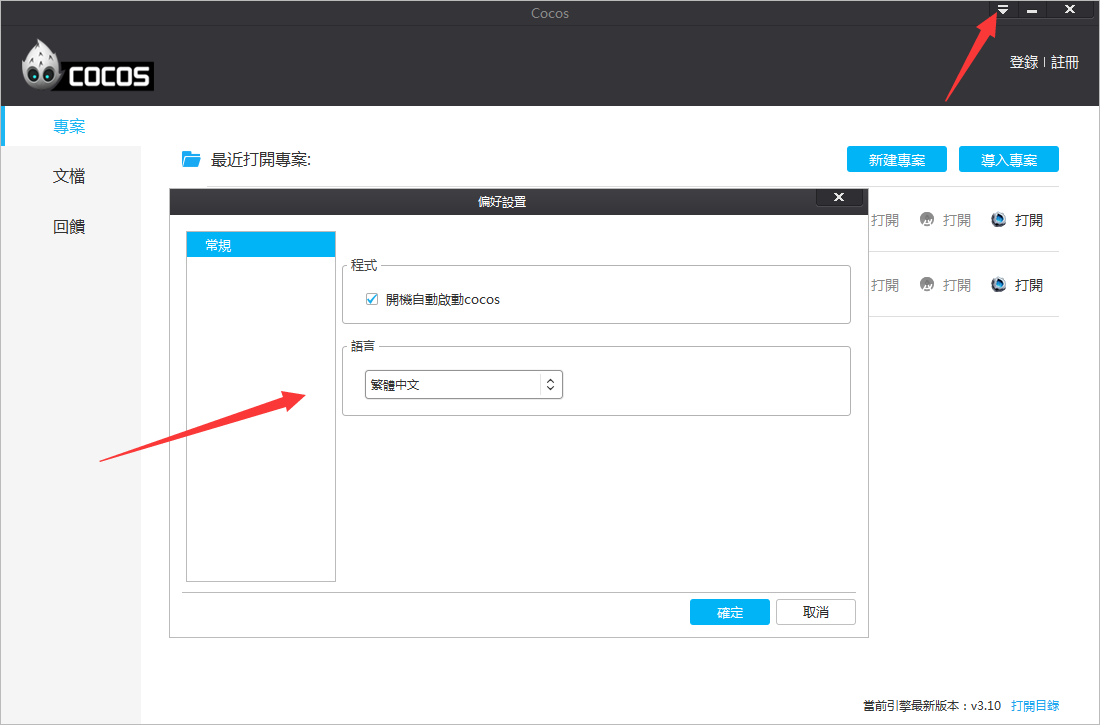
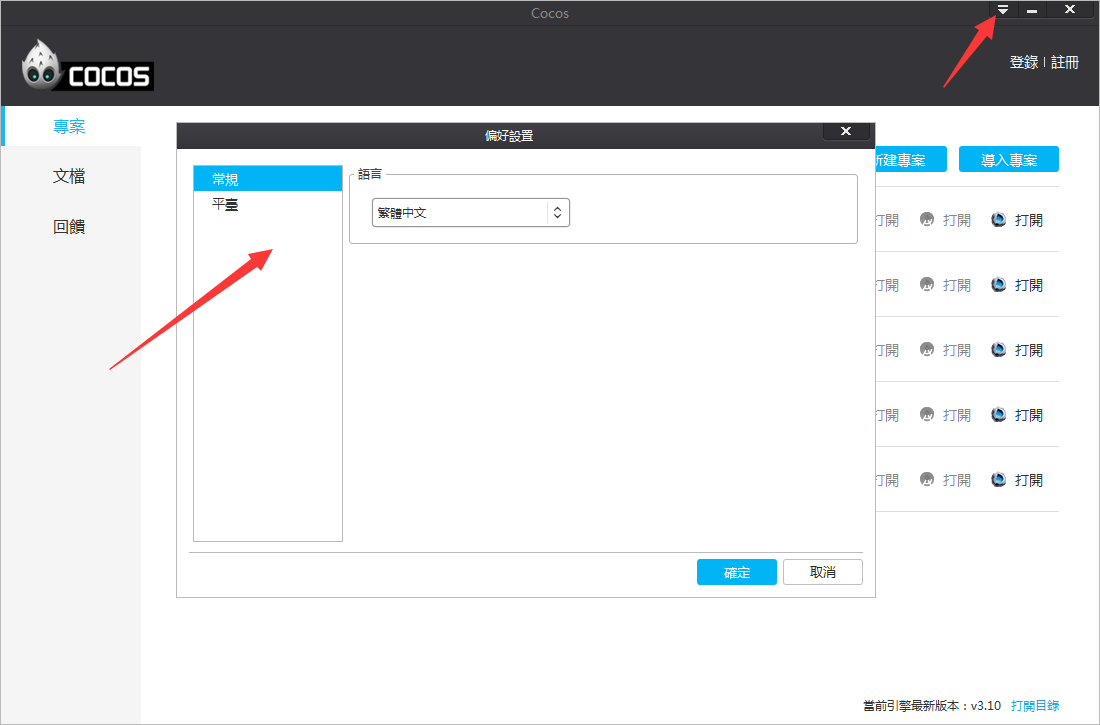
update illustration

diff --git a/manual/studio/v4/chapter2/NewProject/zh.md b/manual/studio/v4/chapter2/NewProject/zh.md
@@ -66,7 +66,7 @@
 &emsp;&emsp;&emsp;&emsp;&emsp;&emsp;&emsp;&emsp;&emsp;&emsp;&emsp;&emsp;&emsp;&emsp;&emsp;&emsp;&emsp;&emsp;&emsp;&emsp;&emsp;&emsp;&emsp;&emsp;&emsp;&emsp;&emsp;&emsp;&emsp;&emsp;**图5. 打开文件** 
 
 ### 6.设置 ###
-在启动器面板，点击右上角的三角图标，弹出3个选项，点击“设置”，您将看到如图6所示界面。其中包括下载目录，发布多渠道目录，勾选是否开机启动cocos和启动器的显示语言，有简体中文，繁体中文和英文可供选择，如图6：
+在启动器面板，点击右上角的三角图标，弹出3个选项，点击“偏好设置”，您将看到如图6所示界面。其中包括下载目录，发布多渠道目录，勾选是否开机启动cocos和启动器的显示语言，有简体中文，繁体中文和英文可供选择，如图6：
 
 ![image](res/image0011.png)
 

diff --git a/manual/studio/v4/chapter2/NewProject/tw.md b/manual/studio/v4/chapter2/NewProject/tw.md
@@ -58,7 +58,7 @@
 &emsp;&emsp;&emsp;&emsp;&emsp;&emsp;&emsp;&emsp;&emsp;&emsp;&emsp;&emsp;&emsp;&emsp;&emsp;&emsp;&emsp;&emsp;&emsp;&emsp;&emsp;&emsp;&emsp;&emsp;&emsp;&emsp;&emsp;&emsp;&emsp;&emsp;**圖4. 打開文件** 
 
 ### 5.設置 ###
-在啟動器面板，點擊右上角的三角圖示，彈出3個選項，點擊“設置”，您將看到如圖6所示介面。可設置是否開機啟動，設置cocos和啟動器的顯示語言。目前有簡體中文，繁體中文和英文可供選擇，如圖5：
+在啟動器面板，點擊右上角的三角圖示，彈出3個選項，點擊“偏好設置”，您將看到如圖6所示介面。可設置是否開機啟動，設置cocos和啟動器的顯示語言。目前有簡體中文，繁體中文和英文可供選擇，如圖5：
 
 ![image](res_tw/image0011.png)
 

diff --git a/manual/studio/v4/chapter2/NewProject/en.md b/manual/studio/v4/chapter2/NewProject/en.md
@@ -61,10 +61,10 @@ Click **Open** to open the selected project in Visual Studio, Android Studio or 
 
 ![image](res_en/image0010.png)
 
-### 5. Settings ###
+### 5. Preferences ###
 
 - Click the triangle button at the top right of the screen.
-- Choose **Settings**.
+- Choose **Preferences**.
 - Specify preferences for cocos launcher.
 
 ![image](res_en/image0011.png)
